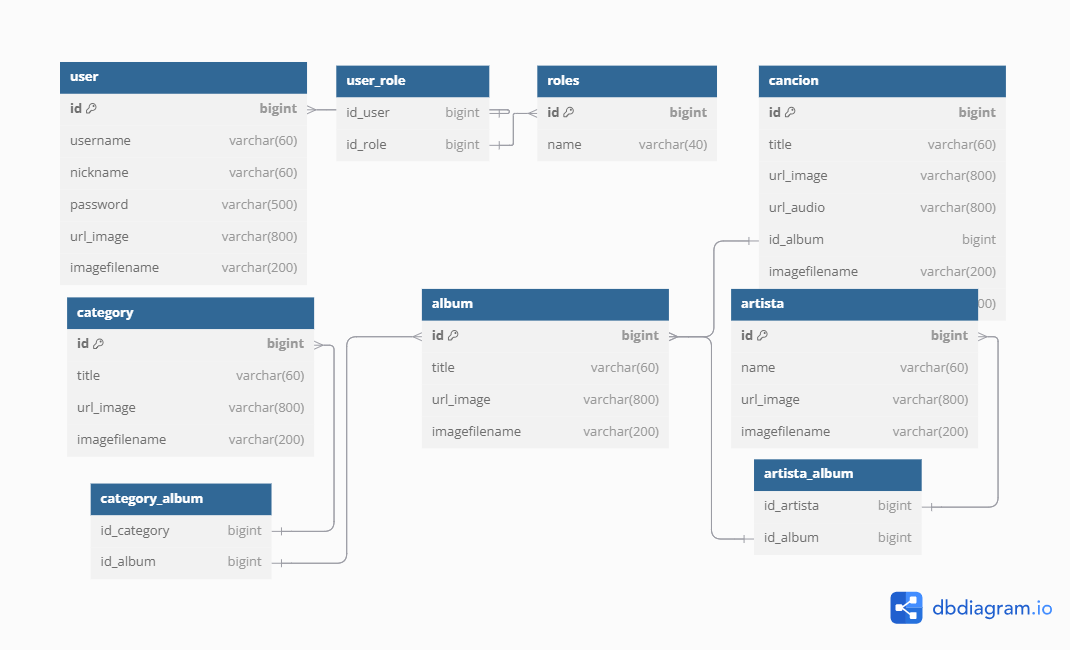
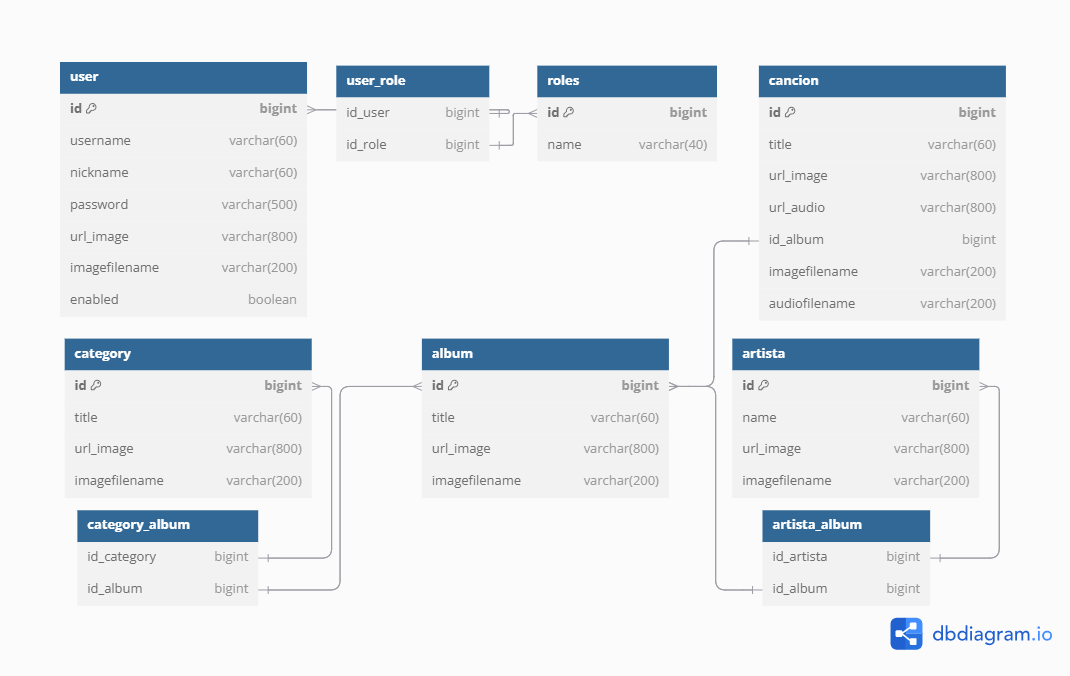
added tables

diff --git a/server/src/main/java/com/myspotify/project/server/models/Songs.java b/server/src/main/java/com/myspotify/project/server/models/Songs.java
@@ -1,0 +1,29 @@
+package com.myspotify.project.server.models;
+
+import jakarta.persistence.*;
+import lombok.AllArgsConstructor;
+import lombok.Builder;
+import lombok.Data;
+import lombok.NoArgsConstructor;
+
+@Data
+@AllArgsConstructor
+@NoArgsConstructor
+@Builder
+@Entity
+@Table(name = "cancion")
+public class Songs {
+    @Id
+    @GeneratedValue(strategy = GenerationType.IDENTITY)
+    private Long id;
+    @Column(length = 60)
+    private String title;
+    @Column(name = "url_image", length = 800)
+    private String urlImage;
+    @Column(name = "url_audio", length = 800)
+    private String urlAudio;
+    @Column(length = 200, unique = true)
+    private String imagefilename;
+    @Column(length = 200, unique = true)
+    private String audiofilename;
+}

diff --git a/server/src/main/java/com/myspotify/project/server/models/Album.java b/server/src/main/java/com/myspotify/project/server/models/Album.java
@@ -1,0 +1,27 @@
+package com.myspotify.project.server.models;
+
+
+import jakarta.persistence.*;
+import lombok.AllArgsConstructor;
+import lombok.Builder;
+import lombok.Data;
+import lombok.NoArgsConstructor;
+
+@Data
+@AllArgsConstructor
+@NoArgsConstructor
+@Builder
+@Entity
+@Table(name = "album")
+public class Album {
+
+    @Id
+    @GeneratedValue(strategy = GenerationType.IDENTITY)
+    private Long id;
+    @Column(length = 60)
+    private String title;
+    @Column(name = "url_image", length = 800)
+    private String urlImage;
+    @Column(length = 200, unique = true)
+    private String imagefilename;
+}

diff --git a/server/src/main/java/com/myspotify/project/server/models/Category.java b/server/src/main/java/com/myspotify/project/server/models/Category.java
@@ -1,0 +1,25 @@
+package com.myspotify.project.server.models;
+
+import jakarta.persistence.*;
+import lombok.AllArgsConstructor;
+import lombok.Builder;
+import lombok.Data;
+import lombok.NoArgsConstructor;
+
+@Data
+@AllArgsConstructor
+@NoArgsConstructor
+@Builder
+@Entity
+@Table(name = "category")
+public class Category {
+    @Id
+    @GeneratedValue(strategy = GenerationType.IDENTITY)
+    private Long id;
+    @Column(length = 60)
+    private String title;
+    @Column(length = 800, name = "url_image")
+    private String urlImage;
+    @Column(length = 200)
+    private String imagefilename;
+}

diff --git a/server/src/main/java/com/myspotify/project/server/models/Artist.java b/server/src/main/java/com/myspotify/project/server/models/Artist.java
@@ -1,0 +1,25 @@
+package com.myspotify.project.server.models;
+
+import jakarta.persistence.*;
+import lombok.AllArgsConstructor;
+import lombok.Builder;
+import lombok.Data;
+import lombok.NoArgsConstructor;
+
+@Data
+@AllArgsConstructor
+@NoArgsConstructor
+@Builder
+@Entity
+@Table(name = "artist")
+public class Artist {
+    @Id
+    @GeneratedValue(strategy = GenerationType.IDENTITY)
+    private Long id;
+    @Column(length = 60)
+    private String name;
+    @Column(length = 800, name = "url_image")
+    private String urlImage;
+    @Column(length = 200)
+    private String imagefilename;
+}

diff --git a/server/src/main/java/com/myspotify/project/server/models/Users.java b/server/src/main/java/com/myspotify/project/server/models/Users.java
@@ -30,6 +30,8 @@ public class Users {
     private String password;
     @Column(length = 200, unique = true)
     private String imagefilename;
+    private Boolean enabled;
+
     @ManyToMany
     @JoinTable(
             name = "user_role",
@@ -38,4 +40,9 @@ public class Users {
     )
     @JsonIgnore
     private List<Roles> roles;
+
+    @PrePersist
+    public void prepersist(){
+        enabled = true;
+    }
 }

diff --git a/server/src/main/java/com/myspotify/project/server/services/imp/UserDetailsServiceImp.java b/server/src/main/java/com/myspotify/project/server/services/imp/UserDetailsServiceImp.java
@@ -29,7 +29,7 @@ public class UserDetailsServiceImp implements UserDetailsService {
 
         userSecurity.setUsername(username);
         userSecurity.setAuthorities(authorities);
-        userSecurity.setEnabled(true);
+        userSecurity.setEnabled(users.getEnabled());
         userSecurity.setPassword(users.getPassword());
         userSecurity.setNickname(users.getNickname());
 
